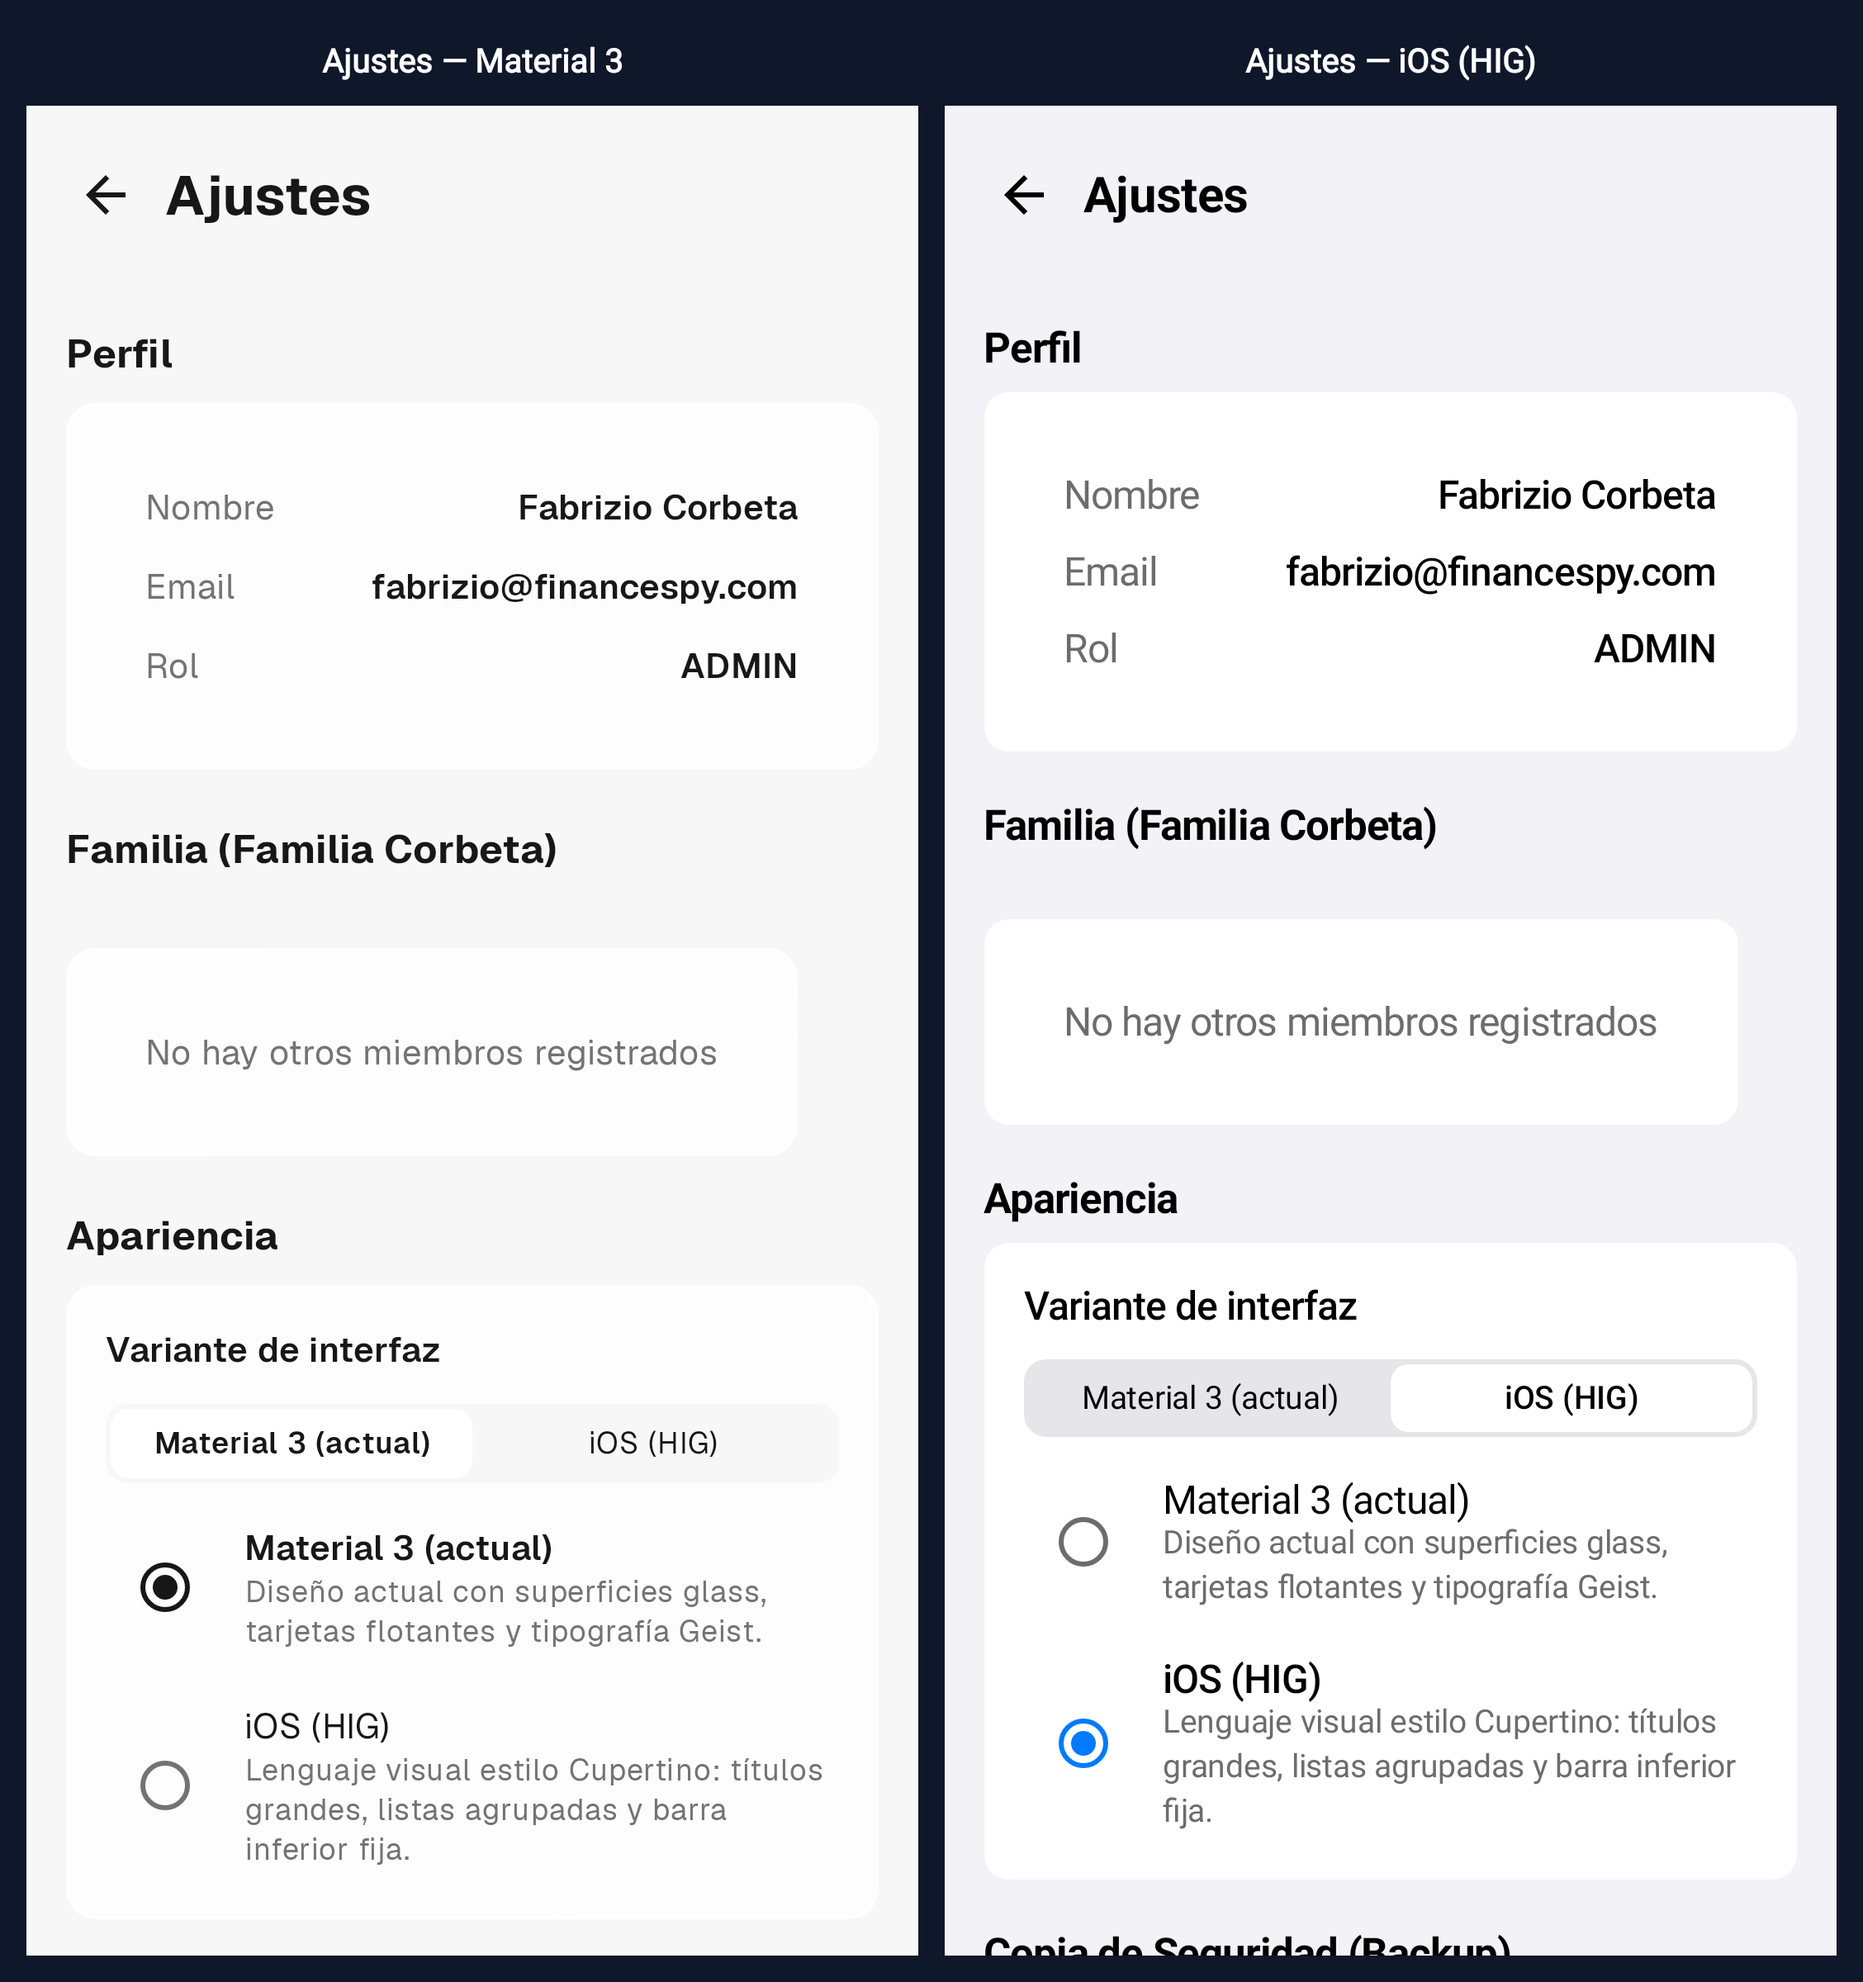
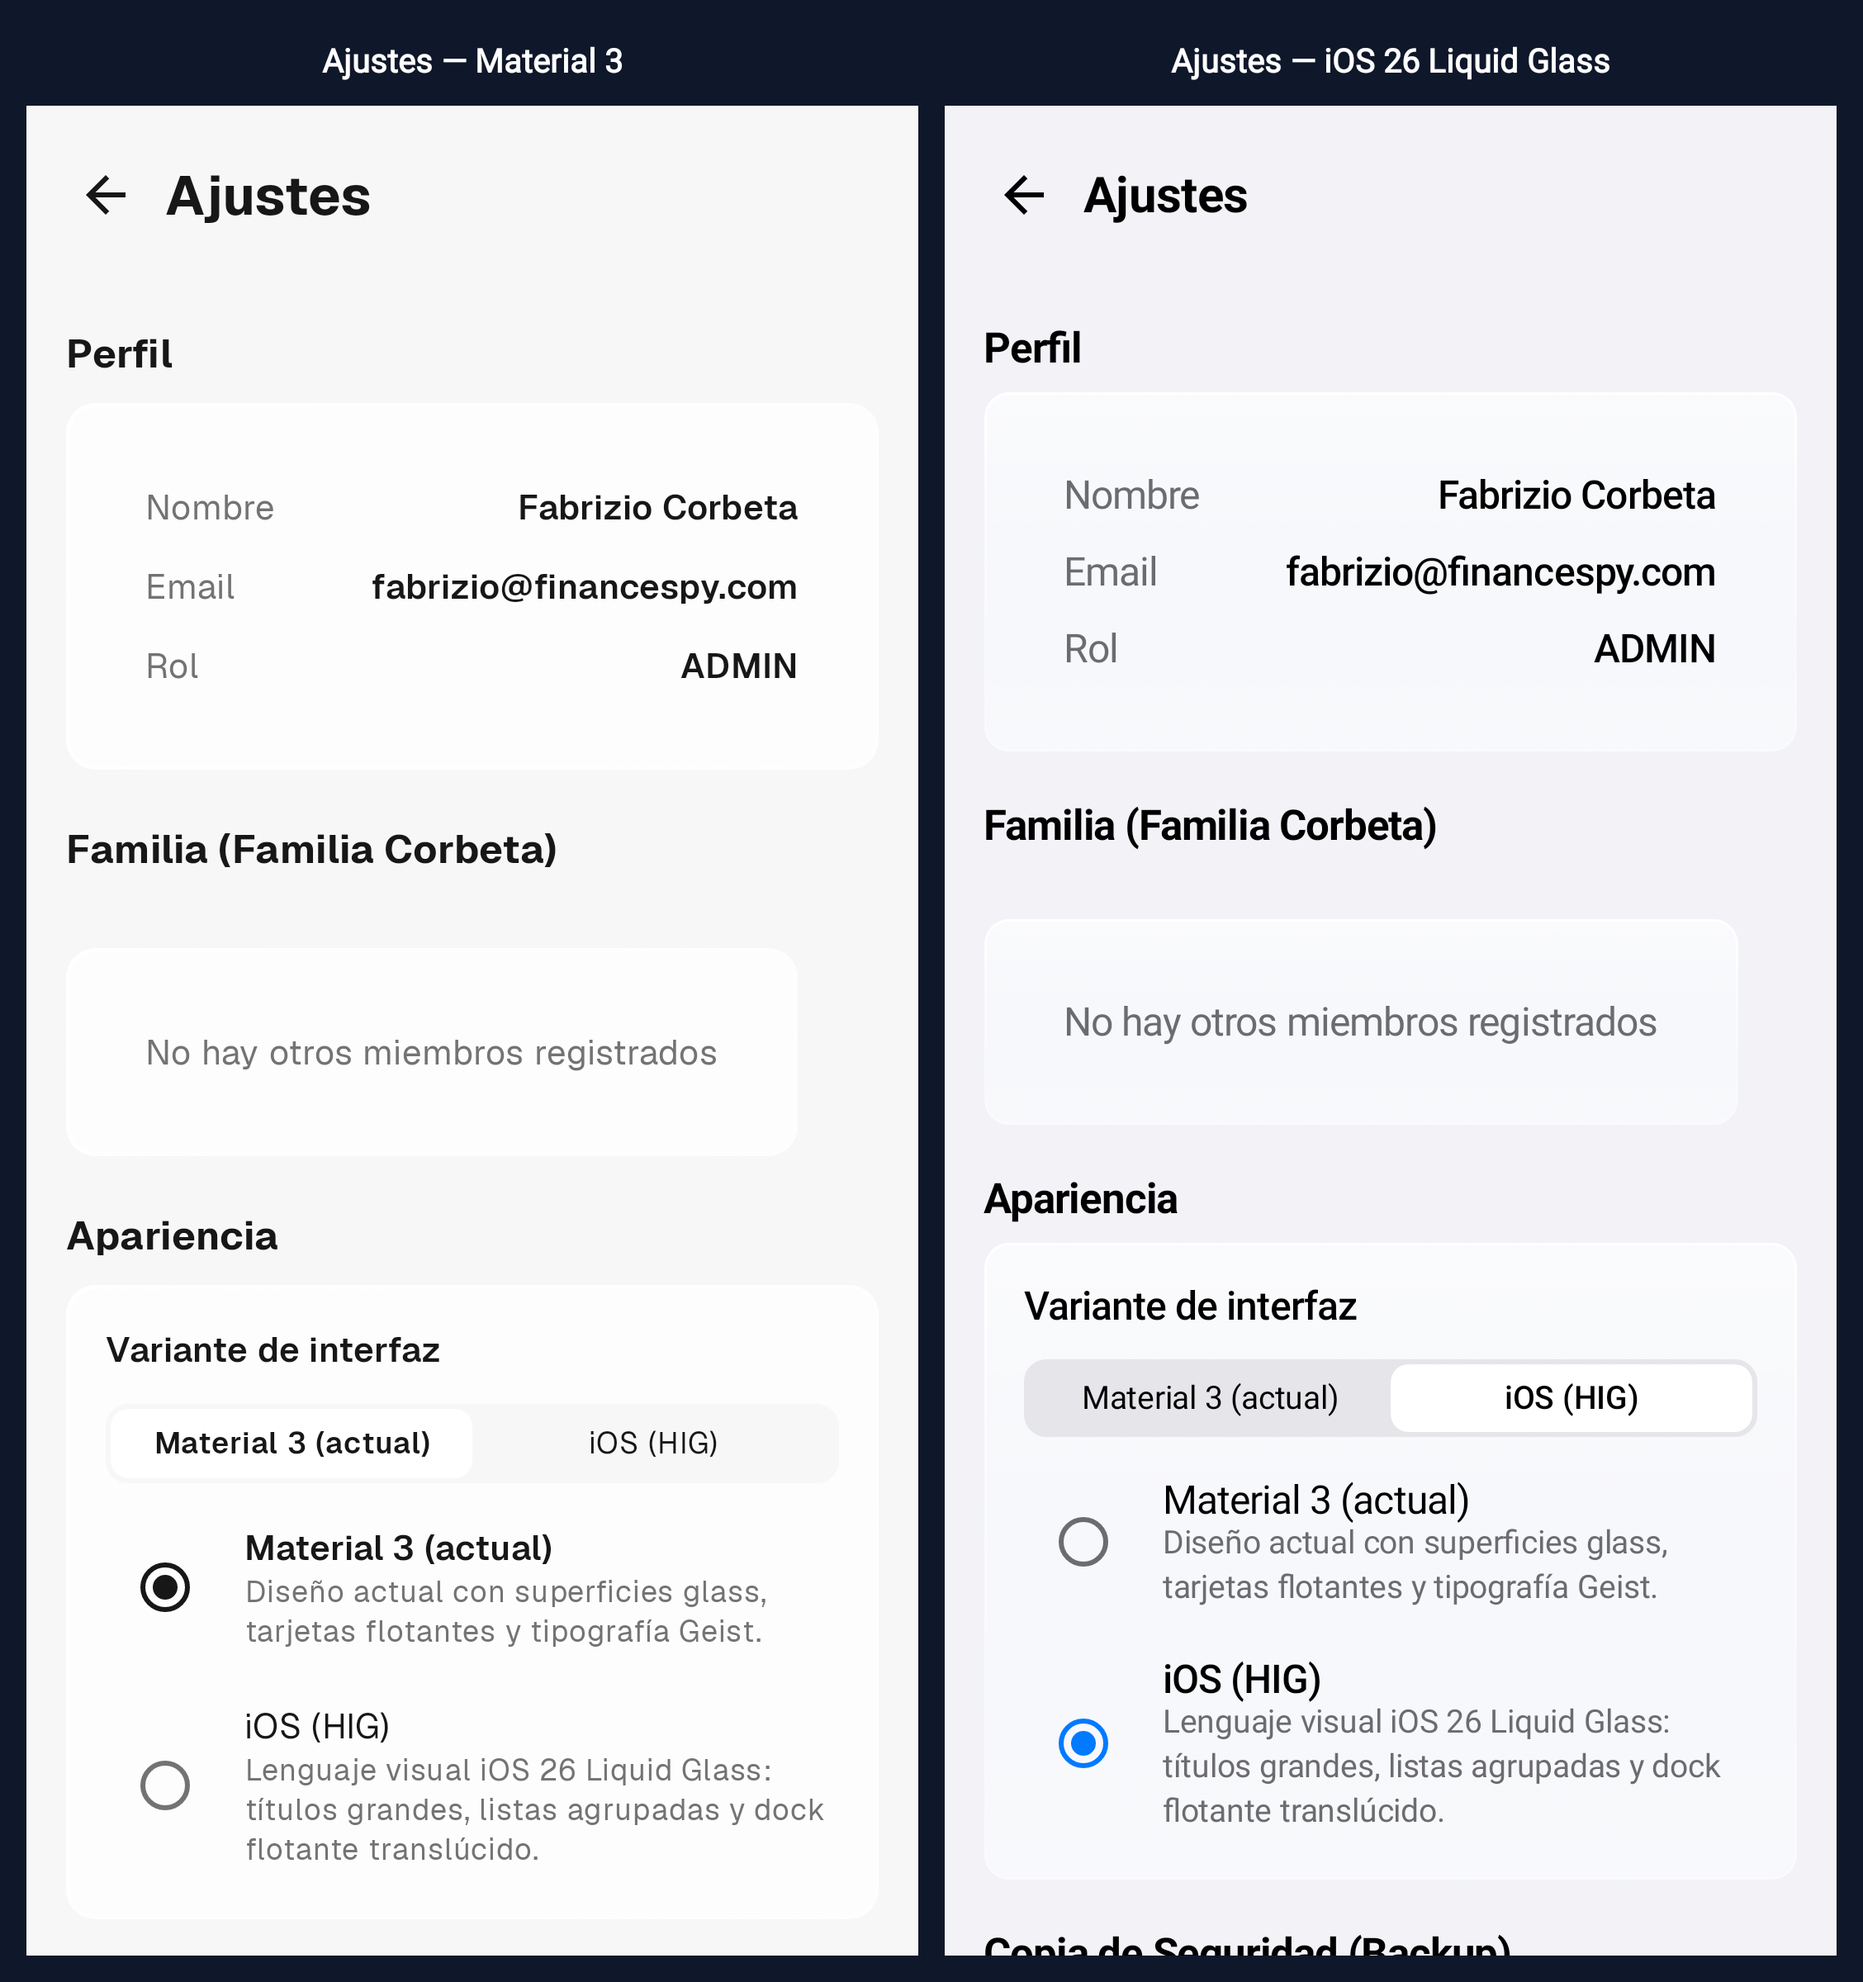
test(android): update visual capture test and generate iOS 26 Liquid Glass screenshots
Add visual capture test verifying content passing underneath the floating
bottom nav and assert all variant comparisons differ by >2%. Update
side-by-side screenshots for Dashboard, Transactions, Settings, and Bottom Nav.

diff --git a/native/financespy-kmp/shared/src/androidUnitTest/kotlin/py/com/cdco/financespy/theme/UiVariantVisualCaptureTest.kt b/native/financespy-kmp/shared/src/androidUnitTest/kotlin/py/com/cdco/financespy/theme/UiVariantVisualCaptureTest.kt
@@ -7,12 +7,22 @@ import android.graphics.Paint
 import android.os.Looper
 import android.view.View
 import androidx.activity.ComponentActivity
+import androidx.compose.foundation.background
+import androidx.compose.foundation.layout.Arrangement
 import androidx.compose.foundation.layout.Box
+import androidx.compose.foundation.layout.PaddingValues
+import androidx.compose.foundation.layout.Row
 import androidx.compose.foundation.layout.fillMaxSize
+import androidx.compose.foundation.layout.fillMaxWidth
+import androidx.compose.foundation.lazy.LazyColumn
+import androidx.compose.material3.MaterialTheme
+import androidx.compose.material3.Text
 import androidx.compose.runtime.Composable
 import androidx.compose.ui.Alignment
 import androidx.compose.ui.Modifier
 import androidx.compose.ui.platform.ComposeView
+import androidx.compose.ui.text.font.FontWeight
+import androidx.compose.ui.unit.dp
 import io.ktor.client.HttpClient
 import kotlinx.coroutines.CoroutineScope
 import kotlinx.coroutines.Dispatchers
@@ -81,6 +91,7 @@ import py.com.cdco.financespy.screens.TransactionsScreen
 import py.com.cdco.financespy.screens.TransactionsViewModel
 import py.com.cdco.financespy.sync.SyncEngine
 import py.com.cdco.financespy.theme.components.AppBottomNav
+import py.com.cdco.financespy.theme.components.AppCard
 import java.io.File
 import java.io.FileOutputStream
 import kotlin.test.assertTrue
@@ -526,6 +537,84 @@ class UiVariantVisualCaptureTest {
             )
         }
 
+        // Captura con contenido pasando por debajo de la barra inferior (scrolling content),
+        // donde la translucidez y refracción del glass se aprecian directamente.
+        val contentUnderNavM3 = renderScreenToBitmap(UiVariant.MATERIAL3) {
+            Box(modifier = Modifier.fillMaxSize().background(FinancePyColors.surface())) {
+                LazyColumn(
+                    modifier = Modifier.fillMaxSize(),
+                    contentPadding = PaddingValues(16.dp),
+                    verticalArrangement = Arrangement.spacedBy(12.dp)
+                ) {
+                    items(20) { idx ->
+                        AppCard(modifier = Modifier.fillMaxWidth()) {
+                            Row(
+                                modifier = Modifier.fillMaxWidth(),
+                                horizontalArrangement = Arrangement.SpaceBetween,
+                                verticalAlignment = Alignment.CenterVertically
+                            ) {
+                                Text(
+                                    text = "Movimiento #$idx — Supermercado Stock",
+                                    style = MaterialTheme.typography.bodyMedium,
+                                    color = FinancePyColors.textPrimary()
+                                )
+                                Text(
+                                    text = "-₲ 245.000",
+                                    style = MaterialTheme.typography.bodyMedium.copy(fontWeight = FontWeight.Bold),
+                                    color = FinancePyColors.destructive()
+                                )
+                            }
+                        }
+                    }
+                }
+                AppBottomNav(
+                    items = barItems,
+                    currentRoute = Routes.TRANSACTIONS,
+                    onNavigate = {},
+                    onMoreClick = {},
+                    modifier = Modifier.align(Alignment.BottomCenter)
+                )
+            }
+        }
+
+        val contentUnderNavIos = renderScreenToBitmap(UiVariant.IOS) {
+            Box(modifier = Modifier.fillMaxSize().background(FinancePyColors.surface())) {
+                LazyColumn(
+                    modifier = Modifier.fillMaxSize(),
+                    contentPadding = PaddingValues(16.dp),
+                    verticalArrangement = Arrangement.spacedBy(12.dp)
+                ) {
+                    items(20) { idx ->
+                        AppCard(modifier = Modifier.fillMaxWidth()) {
+                            Row(
+                                modifier = Modifier.fillMaxWidth(),
+                                horizontalArrangement = Arrangement.SpaceBetween,
+                                verticalAlignment = Alignment.CenterVertically
+                            ) {
+                                Text(
+                                    text = "Movimiento #$idx — Supermercado Stock",
+                                    style = MaterialTheme.typography.bodyMedium,
+                                    color = FinancePyColors.textPrimary()
+                                )
+                                Text(
+                                    text = "-₲ 245.000",
+                                    style = MaterialTheme.typography.bodyMedium.copy(fontWeight = FontWeight.Bold),
+                                    color = FinancePyColors.destructive()
+                                )
+                            }
+                        }
+                    }
+                }
+                AppBottomNav(
+                    items = barItems,
+                    currentRoute = Routes.TRANSACTIONS,
+                    onNavigate = {},
+                    onMoreClick = {},
+                    modifier = Modifier.align(Alignment.BottomCenter)
+                )
+            }
+        }
+
         // Las dos variantes tienen que renderizar distinto. Antes esto solo
         // afirmaba `width > 0`, que no puede fallar: si LocalUiVariant quedara
         // mal cableado y ambas variantes cayeran a Material 3, o si una pantalla
@@ -534,6 +623,7 @@ class UiVariantVisualCaptureTest {
         assertDiffer(dashboardM3, dashboardIos, "Dashboard")
         assertDiffer(transactionsM3, transactionsIos, "Transacciones")
         assertDiffer(settingsM3, settingsIos, "Ajustes")
+        assertDiffer(contentUnderNavM3, contentUnderNavIos, "Barra inferior con contenido debajo")
 
         val outDir = File("build/outputs/screenshots/ui-variants")
         outDir.mkdirs()
@@ -542,23 +632,46 @@ class UiVariantVisualCaptureTest {
             left = dashboardM3,
             right = dashboardIos,
             leftLabel = "Material 3 (Actual / Default)",
-            rightLabel = "iOS (Apple HIG)",
+            rightLabel = "iOS 26 Liquid Glass",
             targetFile = File(outDir, "dashboard_side_by_side.png")
         )
         saveSideBySide(
             left = transactionsM3,
             right = transactionsIos,
             leftLabel = "Material 3 (Actual / Default)",
-            rightLabel = "iOS (Apple HIG)",
+            rightLabel = "iOS 26 Liquid Glass",
             targetFile = File(outDir, "transactions_side_by_side.png")
         )
         saveSideBySide(
             left = settingsM3,
             right = settingsIos,
             leftLabel = "Ajustes — Material 3",
-            rightLabel = "Ajustes — iOS (HIG)",
+            rightLabel = "Ajustes — iOS 26 Liquid Glass",
             targetFile = File(outDir, "settings_side_by_side.png")
         )
+
+        // Close-up focalizado en la zona inferior donde el contenido pasa por debajo de la barra
+        val cropTop = 1350
+        val cropHeight = 890
+        val navCropM3 = Bitmap.createBitmap(contentUnderNavM3, 0, cropTop, contentUnderNavM3.width, cropHeight)
+        val navCropIos = Bitmap.createBitmap(contentUnderNavIos, 0, cropTop, contentUnderNavIos.width, cropHeight)
+
+        saveSideBySide(
+            left = navCropM3,
+            right = navCropIos,
+            leftLabel = "Barra inferior — Material 3 (Contenido pasando debajo)",
+            rightLabel = "Barra inferior — iOS 26 Liquid Glass (Contenido pasando debajo)",
+            targetFile = File(outDir, "bottom_nav_content_underneath.png")
+        )
+
+        // Sincronizar automáticamente en la carpeta de documentación para el PR
+        val docsDir = File("../docs/screenshots/ui-variants")
+        if (docsDir.exists() || docsDir.mkdirs()) {
+            File(outDir, "dashboard_side_by_side.png").copyTo(File(docsDir, "dashboard_side_by_side.png"), overwrite = true)
+            File(outDir, "transactions_side_by_side.png").copyTo(File(docsDir, "transactions_side_by_side.png"), overwrite = true)
+            File(outDir, "settings_side_by_side.png").copyTo(File(docsDir, "settings_side_by_side.png"), overwrite = true)
+            File(outDir, "bottom_nav_content_underneath.png").copyTo(File(docsDir, "bottom_nav_content_underneath.png"), overwrite = true)
+        }
     }
 
     // Compara pixel a pixel con un muestreo cada 4 (suficiente para detectar un

diff --git a/native/financespy-kmp/shared/src/commonMain/kotlin/py/com/cdco/financespy/theme/UiVariantPreferences.kt b/native/financespy-kmp/shared/src/commonMain/kotlin/py/com/cdco/financespy/theme/UiVariantPreferences.kt
@@ -17,7 +17,7 @@ enum class UiVariant(
     IOS(
         id = "ios",
         label = "iOS (HIG)",
-        description = "Lenguaje visual estilo Cupertino: títulos grandes, listas agrupadas y barra inferior fija."
+        description = "Lenguaje visual iOS 26 Liquid Glass: títulos grandes, listas agrupadas y dock flotante translúcido."
     );
 
     companion object {
